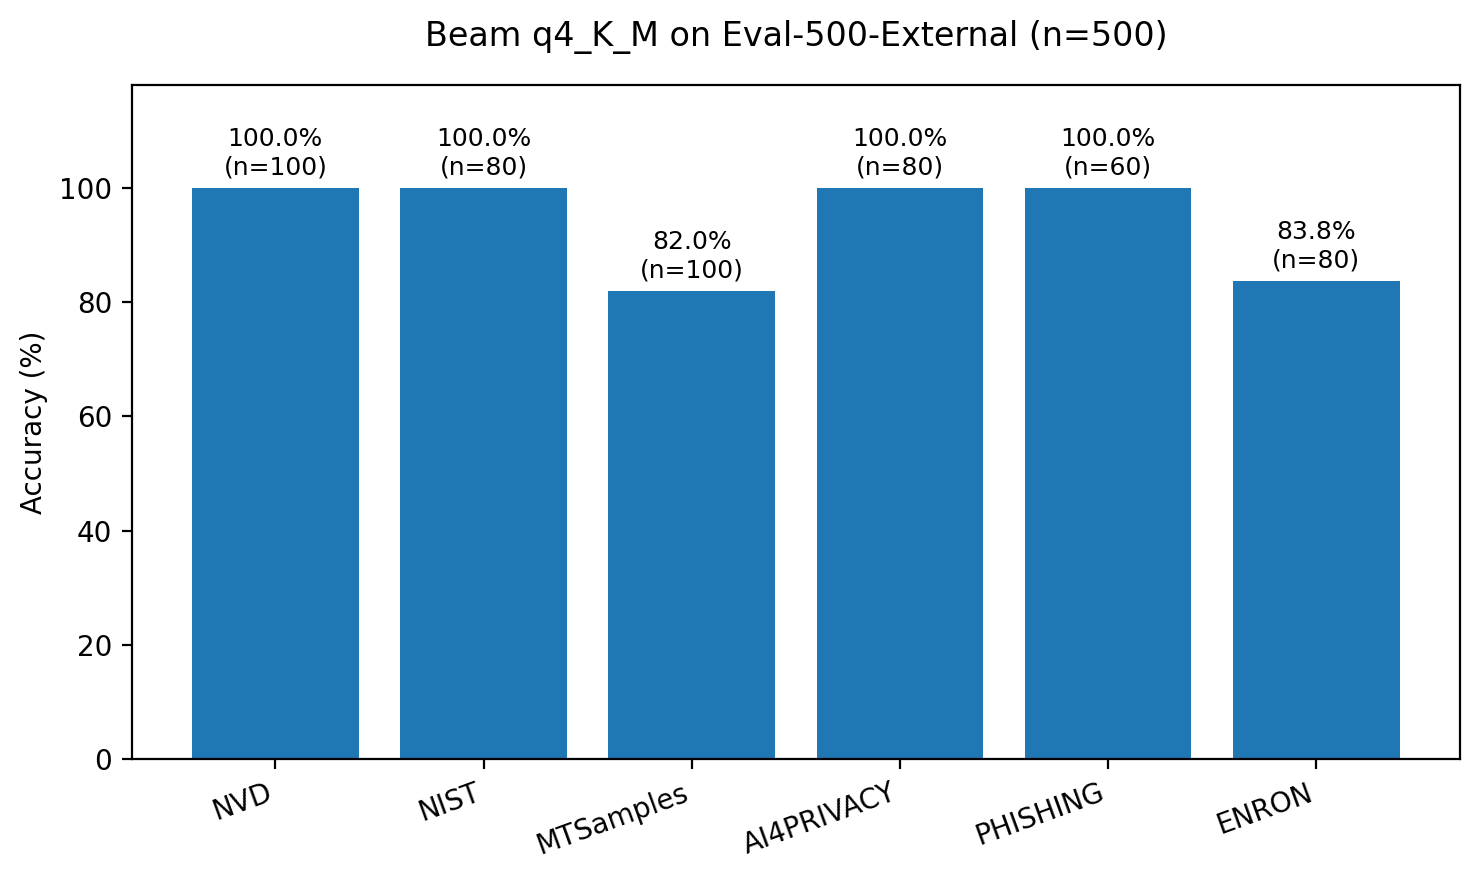
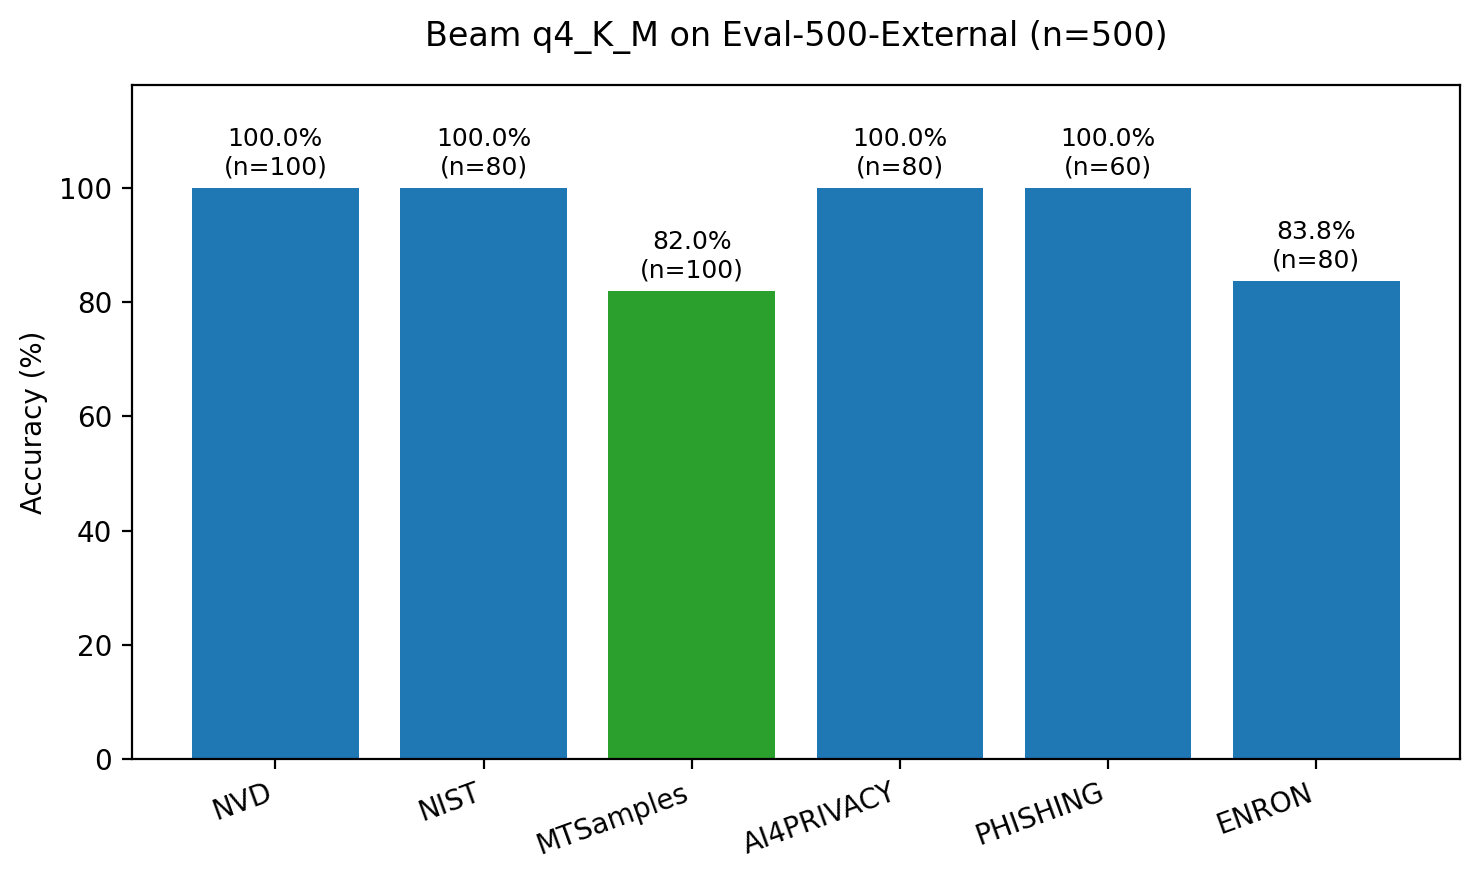
figures: fix fig4/fig5 to match paper text and Table 8
- fig4: color MTSamples bar green so caption ("Green bar highlights
  MTSamples") becomes accurate; the held-out dataset is now visually
  distinguished from in-distribution sources.
- fig5: swap Regex baseline for Qwen base (86.3 / 86.6) so the figure
  shows the same model set as Table 8 (external validation). Regex is
  still covered in §7.4 and Table 7.

Changed region(s): [[0.4041, 0.3068, 0.5284, 0.8591]]

diff --git a/beam/evaluation/scripts/generate_figures.py b/beam/evaluation/scripts/generate_figures.py
@@ -122,8 +122,9 @@ def fig4_external_by_source():
     accs = [by[s][0] / by[s][1] * 100 for s in order]
     ns = [by[s][1] for s in order]
 
+    colors = ["tab:green" if lbl == "MTSamples" else "tab:blue" for lbl in labels]
     fig, ax = plt.subplots(figsize=(7.5, 4.5))
-    ax.bar(labels, accs)
+    ax.bar(labels, accs, color=colors)
     ax.set_ylabel("Accuracy (%)")
     ax.set_ylim(0, 118)
     ax.set_title(f"Beam q4_K_M on Eval-500-External (n={sum(ns)})", pad=14)
@@ -149,9 +150,9 @@ def fig5_primary_vs_external():
         ("GPT-5",
          "eval1000_openai_gpt-5.json",
          "eval_external_gpt-5.json"),
-        ("Regex baseline",
-         "eval1000_regex_only.json",
-         "eval_external_regex_only.json"),
+        ("Qwen base",
+         "eval1000_qwen35_27b_base.json",
+         "eval_external_qwen3.5-27b.json"),
     ]
     labels = []
     primary = []
